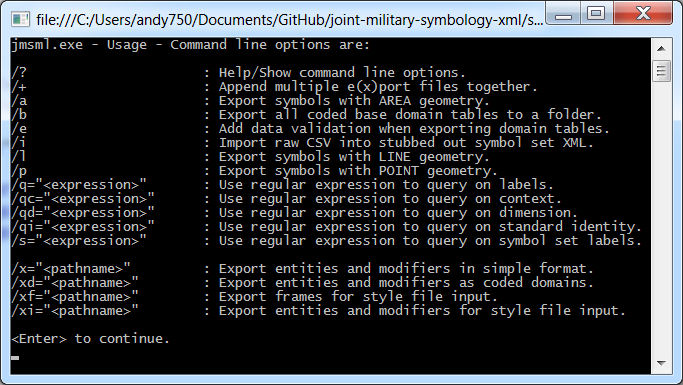
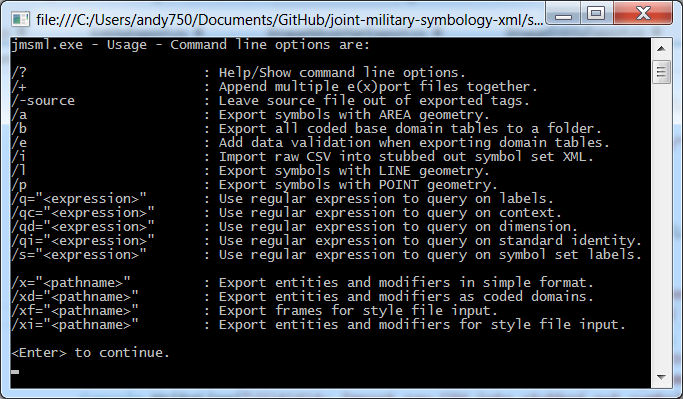
Omit source file information from output
Added a switch to enable turning off the export of svg source file
information from image file exports.

diff --git a/source/JointMilitarySymbologyLibraryCS/jmsml/Program.cs b/source/JointMilitarySymbologyLibraryCS/jmsml/Program.cs
@@ -52,6 +52,7 @@ namespace jmsml
 
             bool dataValidation = (CommandLineArgs.I.argAsString("/e") != "false");
             bool appendFiles = (CommandLineArgs.I.argAsString("/+") != "false");
+            bool omitSource = (CommandLineArgs.I.argAsString("/-source") != "false");
 
             if (help == "/?")
             {
@@ -59,6 +60,7 @@ namespace jmsml
                 Console.WriteLine("");
                 Console.WriteLine("/?\t\t\t: Help/Show command line options.");
                 Console.WriteLine("/+\t\t\t: Append multiple e(x)port files together.");
+                Console.WriteLine("/-source\t\t: Leave source file out of exported tags.");
                 Console.WriteLine("/a\t\t\t: Export symbols with AREA geometry.");
                 Console.WriteLine("/b\t\t\t: Export all coded base domain tables to a folder.");
                 Console.WriteLine("/e\t\t\t: Add data validation when exporting domain tables.");
@@ -86,7 +88,8 @@ namespace jmsml
                                                                 xLines == "/l" || xPoints == "" && xAreas == "",
                                                                 xAreas == "/a" || xPoints == "" && xLines == "",
                                                                 ETLExportEnum.ETLExportSimple,
-                                                                appendFiles);
+                                                                appendFiles,
+                                                                omitSource);
             }
 
             if (exportDPath != "")
@@ -95,7 +98,8 @@ namespace jmsml
                                                                 xLines == "/l" || xPoints == "" && xAreas == "",
                                                                 xAreas == "/a" || xPoints == "" && xLines == "",
                                                                 ETLExportEnum.ETLExportDomain,
-                                                                appendFiles);
+                                                                appendFiles,
+                                                                omitSource);
             }
 
             if (exportDomainPath != "")
@@ -114,12 +118,13 @@ namespace jmsml
                                                                 xLines == "/l" || xPoints == "" && xAreas == "",
                                                                 xAreas == "/a" || xPoints == "" && xLines == "",
                                                                 ETLExportEnum.ETLExportImage,
-                                                                appendFiles);
+                                                                appendFiles,
+                                                                omitSource);
             }
 
             if (frameImagePath != "")
             {
-                _etl.ExportFrames(frameImagePath, contextQuery, identityQuery, dimensionQuery, ETLExportEnum.ETLExportImage);
+                _etl.ExportFrames(frameImagePath, contextQuery, identityQuery, dimensionQuery, ETLExportEnum.ETLExportImage, omitSource);
             }
         }
 

diff --git a/source/JointMilitarySymbologyLibraryCS/etl.cs b/source/JointMilitarySymbologyLibraryCS/etl.cs
@@ -761,7 +761,7 @@ namespace JointMilitarySymbologyLibrary
             _importCSV(path, modPath, symbolsetCode, legacyCode);
         }
 
-        public void Export(string path, string symbolSetExpression = "", string expression = "", bool exportPoints = true, bool exportLines = true, bool exportAreas = true, ETLExportEnum exportType = ETLExportEnum.ETLExportSimple, bool append = false)
+        public void Export(string path, string symbolSetExpression = "", string expression = "", bool exportPoints = true, bool exportLines = true, bool exportAreas = true, ETLExportEnum exportType = ETLExportEnum.ETLExportSimple, bool append = false, bool omitSource = false)
         {
             // The public entry point for exporting selective contents of the JMSML library
             // into CSV format.
@@ -794,8 +794,8 @@ namespace JointMilitarySymbologyLibrary
                     break;
 
                 case ETLExportEnum.ETLExportImage:
-                    entityExporter = new ImageEntityExport(_configHelper);
-                    modifierExporter = new ImageModifierExport(_configHelper);
+                    entityExporter = new ImageEntityExport(_configHelper, omitSource);
+                    modifierExporter = new ImageModifierExport(_configHelper, omitSource);
                     break;
             }
 
@@ -832,7 +832,7 @@ namespace JointMilitarySymbologyLibrary
             _exportSymbolSet(path, dataValidation, append, false);
         }
 
-        public void ExportFrames(string path, string contextExpression = "", string standardIdentityExpression = "", string dimensionExpression = "", ETLExportEnum exportType = ETLExportEnum.ETLExportSimple)
+        public void ExportFrames(string path, string contextExpression = "", string standardIdentityExpression = "", string dimensionExpression = "", ETLExportEnum exportType = ETLExportEnum.ETLExportSimple, bool omitSource = false)
         {
             // The public entry point for exporting frames from the JMSML library
             // into CSV format.
@@ -846,7 +846,7 @@ namespace JointMilitarySymbologyLibrary
             switch (exportType)
             {
                 case ETLExportEnum.ETLExportImage:
-                    frameExporter = new ImageFrameExport(_configHelper);
+                    frameExporter = new ImageFrameExport(_configHelper, omitSource);
                     break;
             }
 

diff --git a/source/JointMilitarySymbologyLibraryCS/EntityExport.cs b/source/JointMilitarySymbologyLibraryCS/EntityExport.cs
@@ -106,7 +106,8 @@ namespace JointMilitarySymbologyLibrary
         protected string BuildEntityItemTags(SymbolSet ss,
                                              SymbolSetEntity e,
                                              SymbolSetEntityEntityType eType,
-                                             SymbolSetEntityEntityTypeEntitySubType eSubType)
+                                             SymbolSetEntityEntityTypeEntitySubType eSubType,
+                                             bool omitSource)
         {
             // Constructs a string of semicolon delimited tags that users can utilize to search
             // for or find a given symbol.
@@ -185,7 +186,10 @@ namespace JointMilitarySymbologyLibrary
             }
 
             result = result + ";" + geometry;
-            result = result + ";" + _configHelper.GetPath(ss.ID, FindEnum.FindEntities) + "\\" + graphic;
+
+            if(!omitSource)
+                result = result + ";" + _configHelper.GetPath(ss.ID, FindEnum.FindEntities) + "\\" + graphic;
+
             result = result + ";" + BuildEntityItemName(ss, e, eType, eSubType);
             result = result + ";" + BuildEntityCode(ss, e, eType, eSubType);
 

diff --git a/source/JointMilitarySymbologyLibraryCS/ImageEntityExport.cs b/source/JointMilitarySymbologyLibraryCS/ImageEntityExport.cs
@@ -25,9 +25,12 @@ namespace JointMilitarySymbologyLibrary
         // by outputting image file path information, its name and the category of icon it falls within,
         // and the tags associated with that SymbolSet and entity.
 
-        public ImageEntityExport(ConfigHelper configHelper)
+        private bool _omitSource = false;
+
+        public ImageEntityExport(ConfigHelper configHelper, bool omitSource)
         {
             _configHelper = configHelper;
+            _omitSource = omitSource;
         }
 
         string IEntityExport.Headers
@@ -89,7 +92,7 @@ namespace JointMilitarySymbologyLibrary
             
             string itemName = BuildEntityItemName(ss, e, eType, eSubType);
             string itemCategory = BuildEntityItemCategory(ss, iType);
-            string itemTags = BuildEntityItemTags(ss, e, eType, eSubType);
+            string itemTags = BuildEntityItemTags(ss, e, eType, eSubType, _omitSource);
 
             result = itemRootedPath + "," +
                      Convert.ToString(_configHelper.PointSize) + "," +

diff --git a/source/JointMilitarySymbologyLibraryCS/ImageModifierExport.cs b/source/JointMilitarySymbologyLibraryCS/ImageModifierExport.cs
@@ -25,9 +25,12 @@ namespace JointMilitarySymbologyLibrary
         // by outputting image file path information, its name and the category of icon it falls within,
         // and the tags associated with that SymbolSet and modifier.
 
-        public ImageModifierExport(ConfigHelper configHelper)
+        private bool _omitSource = false;
+
+        public ImageModifierExport(ConfigHelper configHelper, bool omitSource)
         {
             _configHelper = configHelper;
+            _omitSource = omitSource;
         }
 
         string IModifierExport.Headers
@@ -61,7 +64,7 @@ namespace JointMilitarySymbologyLibrary
 
             string itemName = BuildModifierItemName(ss, modNumber, m);
             string itemCategory = BuildModifierItemCategory(ss, modNumber);
-            string itemTags = BuildModifierItemTags(ss, modNumber, m);
+            string itemTags = BuildModifierItemTags(ss, modNumber, m, _omitSource);
 
             result = itemRootedPath + "," +
                      Convert.ToString(_configHelper.PointSize) + "," +

diff --git a/source/JointMilitarySymbologyLibraryCS/ImageFrameExport.cs b/source/JointMilitarySymbologyLibraryCS/ImageFrameExport.cs
@@ -21,9 +21,12 @@ namespace JointMilitarySymbologyLibrary
 {
     class ImageFrameExport : FrameExport, IFrameExport
     {
-        public ImageFrameExport(ConfigHelper configHelper)
+        private bool _omitSource = false;
+
+        public ImageFrameExport(ConfigHelper configHelper, bool omitSource)
         {
             _configHelper = configHelper;
+            _omitSource = omitSource;
         }
 
         string IFrameExport.Headers
@@ -54,7 +57,7 @@ namespace JointMilitarySymbologyLibrary
 
                 string itemName = BuildFrameItemName(context, dimension, identity);
                 string itemCategory = "Frame";
-                string itemTags = BuildFrameItemTags(context, identity, dimension, graphicPath + "\\" + graphic);
+                string itemTags = BuildFrameItemTags(context, identity, dimension, graphicPath + "\\" + graphic, _omitSource);
 
                 result = itemRootedPath + "," +
                          Convert.ToString(_configHelper.PointSize) + "," +

diff --git a/source/JointMilitarySymbologyLibraryCS/ModifierExport.cs b/source/JointMilitarySymbologyLibraryCS/ModifierExport.cs
@@ -58,7 +58,7 @@ namespace JointMilitarySymbologyLibrary
         // modifier.  Information includes the Label attributes, geometry
         // type, location of the original graphic file, the code, etc.
 
-        protected string BuildModifierItemTags(SymbolSet ss, string modNumber, ModifiersTypeModifier m)
+        protected string BuildModifierItemTags(SymbolSet ss, string modNumber, ModifiersTypeModifier m, bool omitSource)
         {
             string path = "";
             string result = ss.Label.Replace(',', '-');
@@ -76,7 +76,9 @@ namespace JointMilitarySymbologyLibrary
                     break;
             }
 
-            result = result + ";" + path + "\\" + m.Graphic;
+            if(!omitSource)
+                result = result + ";" + path + "\\" + m.Graphic;
+
             result = result + ";" + BuildModifierItemName(ss, modNumber, m);
             result = result + ";" + m.Category;
             result = result + ";" + BuildModifierCode(ss, modNumber, m);

diff --git a/source/JointMilitarySymbologyLibraryCS/FrameExport.cs b/source/JointMilitarySymbologyLibraryCS/FrameExport.cs
@@ -51,7 +51,7 @@ namespace JointMilitarySymbologyLibrary
             return result;
         }
 
-        protected string BuildFrameItemTags(LibraryContext context, LibraryStandardIdentity identity, LibraryDimension dimension, string graphicPath)
+        protected string BuildFrameItemTags(LibraryContext context, LibraryStandardIdentity identity, LibraryDimension dimension, string graphicPath, bool omitSource)
         {
             // Constructs a string of semicolon delimited tags that users can utilize to search
             // for or find a given symbol.
@@ -75,7 +75,9 @@ namespace JointMilitarySymbologyLibrary
                 }
             }
 
-            result = result + graphicPath + ";";
+            if(!omitSource)
+                result = result + graphicPath + ";";
+
             result = result + BuildFrameCode(context, identity, dimension);
 
             return result;

diff --git a/samples/README.md b/samples/README.md
@@ -49,3 +49,5 @@ Frame image file/name/category/tags information can be exported with the /xf swi
 
 	jmsml.exe /xf="Military-Frame-Source-Icons"
 	jmsml.exe /xf="Military-Reality-Frame-Source-Icons" /qc="Reality"
+
+The /-source switch can be used to disable the export of source image file information, for production purposes.
